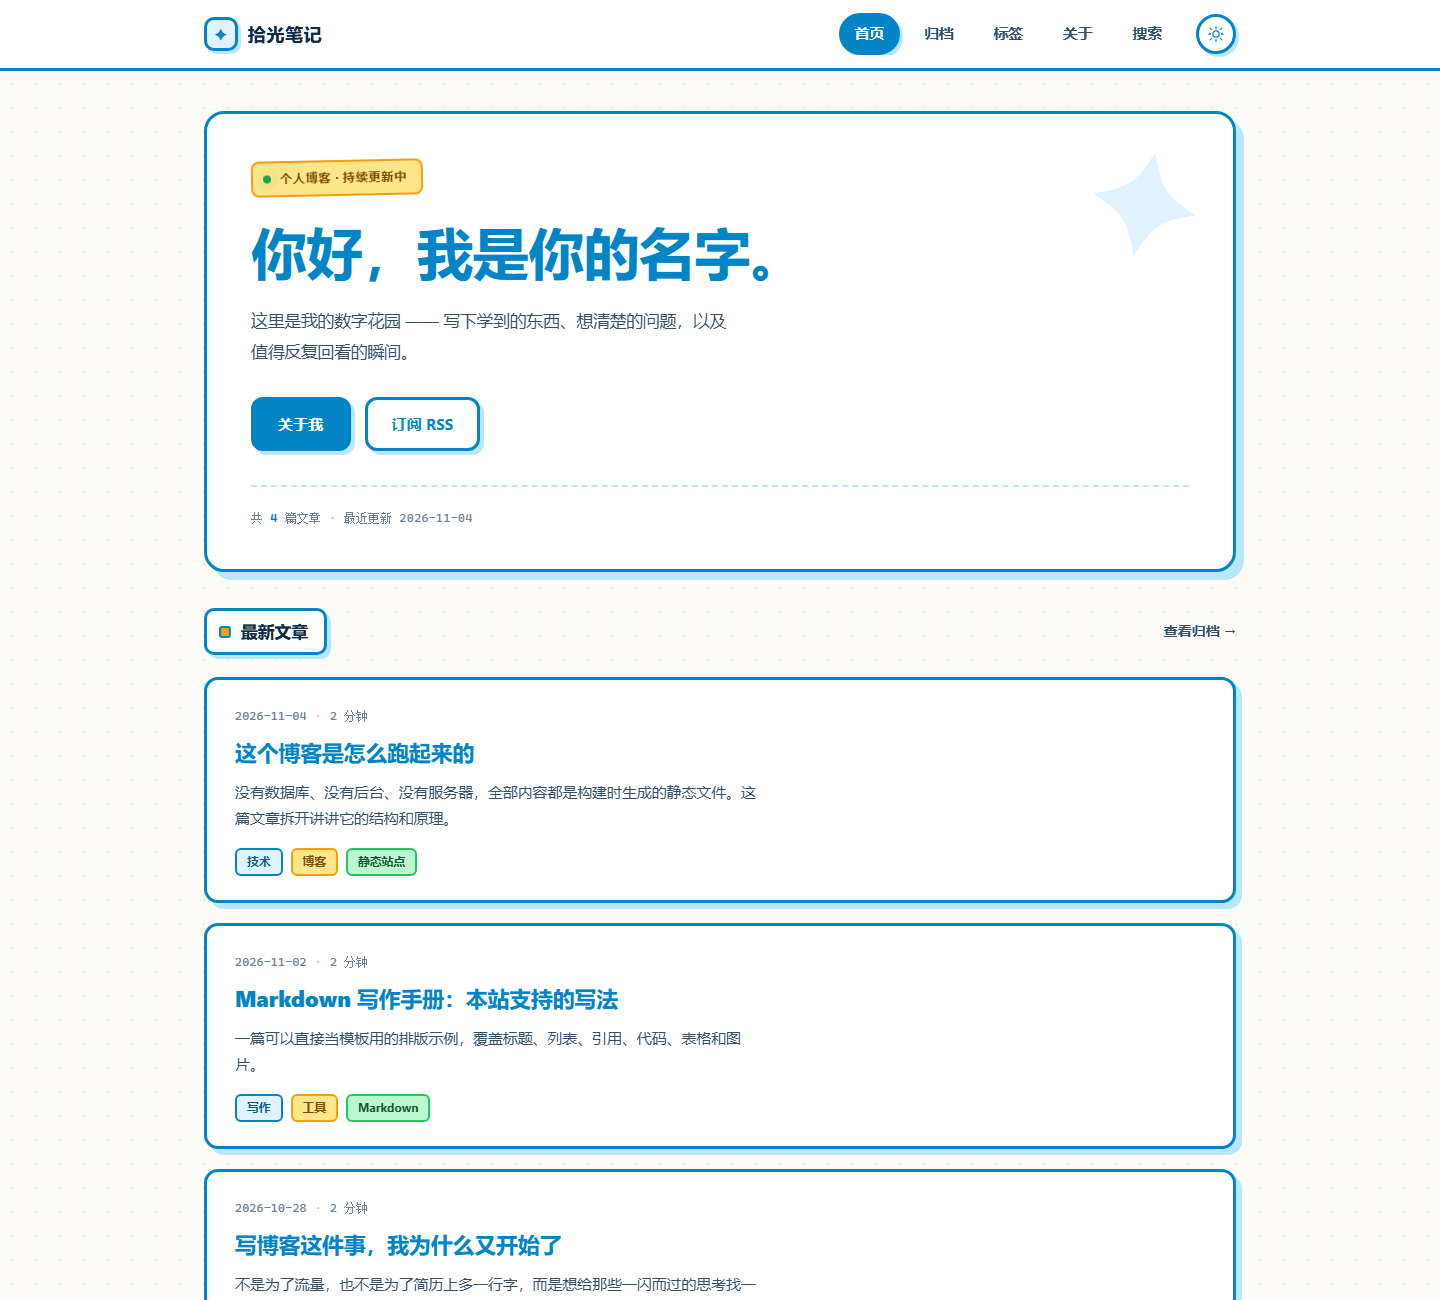
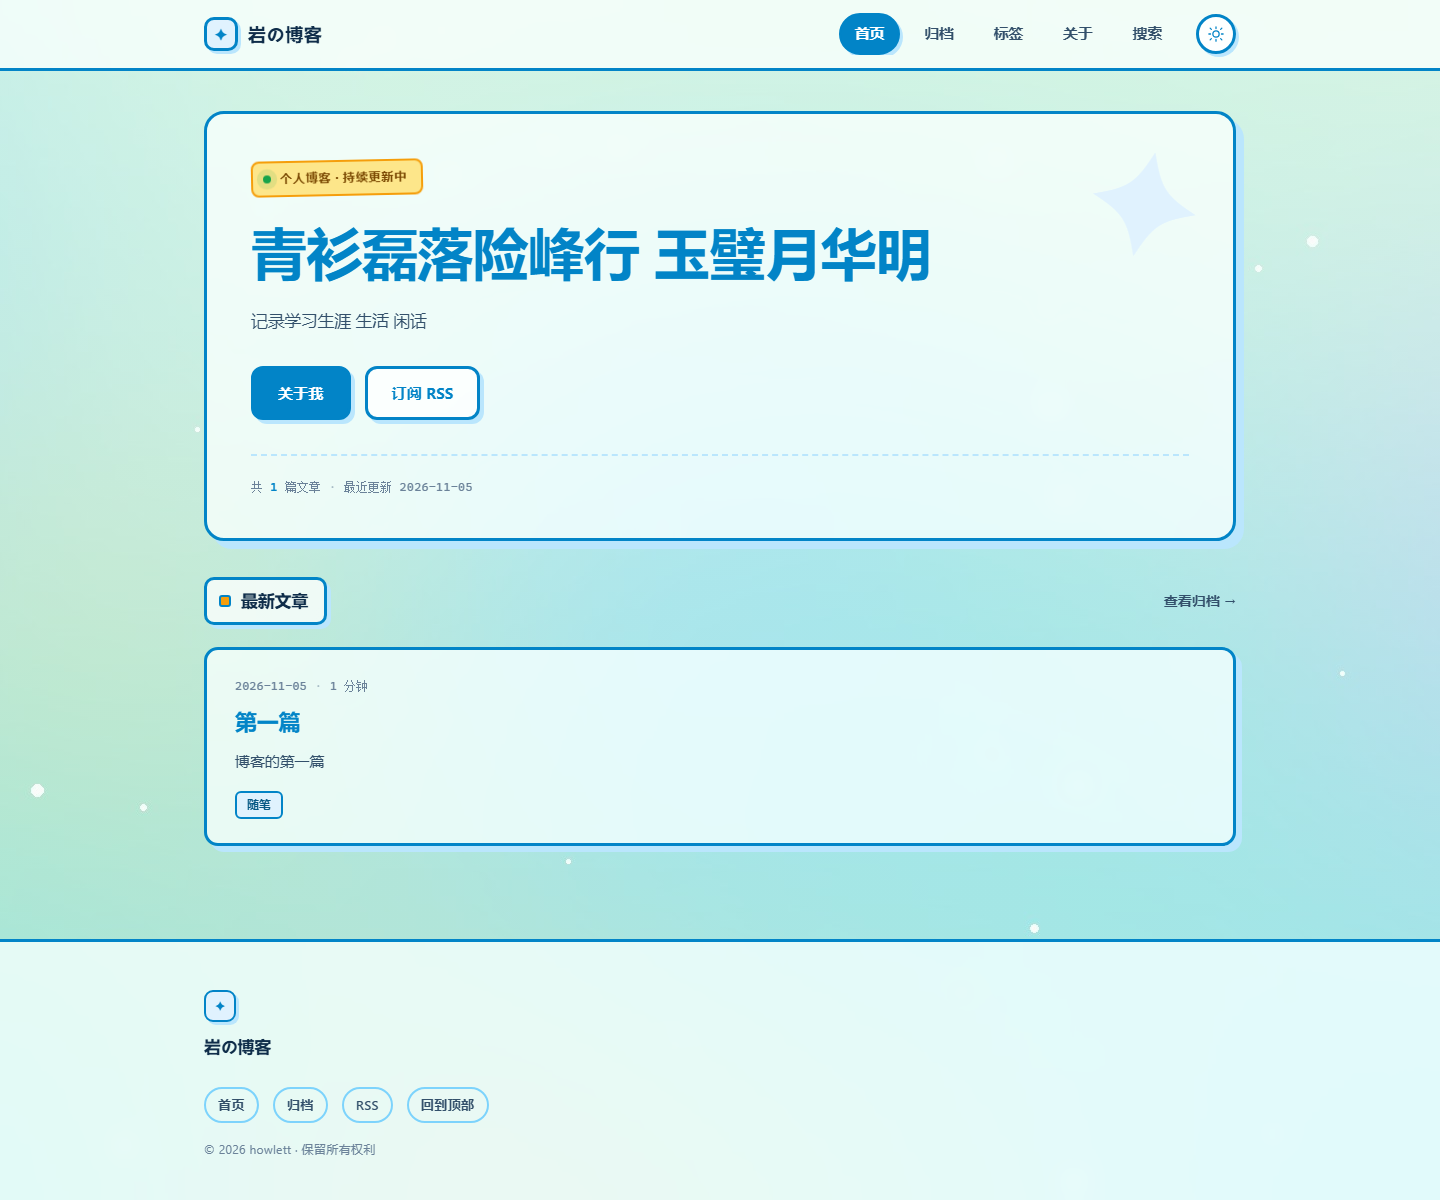
feat: 自定义背景图 + 半透明磨砂面板

diff --git a/theme/styles.css b/theme/styles.css
@@ -8,8 +8,9 @@
   /* 纸张与墨水 */
   --bg: #f2fbf4;
   --bg-dot: rgba(16, 185, 129, 0.13);
-  --surface: #ffffff;
-  --surface-soft: #f7f3ea;
+  --bg-scrim: rgba(242, 251, 244, 0.45);
+  --surface: rgba(255, 255, 255, 0.75);
+  --surface-soft: #8bccdf;
   --ink: #0f2d4a;
   --ink-soft: #33506b;
   --muted: #6b8299;
@@ -46,7 +47,8 @@
 [data-theme="dark"] {
   --bg: #0f161f;
   --bg-dot: rgba(56, 189, 248, 0.12);
-  --surface: #17212e;
+  --bg-scrim: rgba(15, 22, 31, 0.6);
+  --surface: rgba(23, 33, 46, 0.8);
   --surface-soft: #1d2836;
   --ink: #e8f1fa;
   --ink-soft: #b9cde0;
@@ -79,6 +81,7 @@ html {
   -webkit-text-size-adjust: 100%;
   scroll-behavior: smooth;
   scroll-padding-top: calc(var(--header-h) + 24px);
+  background-color: var(--bg);
 }
 
 body {
@@ -86,14 +89,19 @@ body {
   min-height: 100vh;
   display: flex;
   flex-direction: column;
+  position: relative;
   color: var(--ink);
   font-family: var(--font-body);
   font-size: 16px;
   line-height: 1.75;
-  background-color: var(--bg);
   background-image: radial-gradient(circle, var(--bg-dot) 1.4px, transparent 1.4px);
   background-size: 24px 24px;
   -webkit-font-smoothing: antialiased;
+}
+
+/* 有背景图时关掉点阵，避免画面太花；图片本身由 assets/background.css 提供 */
+body.has-bg {
+  background-image: none;
 }
 
 img,
@@ -125,6 +133,24 @@ a:hover {
 
 main {
   flex: 1 0 auto;
+}
+
+/* 半透明磨砂面板：背景图能透出来，文字依旧清楚 */
+.site-header,
+.hero,
+.post-card,
+.archive-year,
+.toc,
+.search-box,
+.search-item,
+.post-nav-item,
+.related-card,
+.tag-chip,
+.theme-toggle,
+.btn-ghost,
+.site-footer {
+  -webkit-backdrop-filter: blur(12px) saturate(140%);
+  backdrop-filter: blur(12px) saturate(140%);
 }
 
 .wrap {

diff --git a/README.md b/README.md
@@ -190,6 +190,7 @@ console.log('代码块');
 | `footerNote` | 页脚的一句话 |
 | `logo` | 站点头像/图标，写 `images/logo.png`（图片放 `public/images/`） |
 | `ogImage` | 分享到微信/Twitter 时的封面图 |
+| `background` | 整站背景图，写 `images/bg.jpg`；留空则用纯色 + 点阵 |
 | `icp` | 备案号，留空则不显示 |
 | `nav` | 导航菜单，增删条目即可 |
 | `pageSize` | 首页每页显示几篇 |
@@ -250,6 +251,7 @@ postEnd: '— 完 —',              // ← 改成 '◆'
 | **「关于」页的头像** | 在 `content/pages/about.md` 里加一行 `![头像](/images/avatar.jpg)` |
 | **文章里的插图** | 图片放 `public/images/`，文章里写 `![说明文字](/images/photo.jpg)` |
 | **分享封面** | `site.config.json` 的 `"ogImage": "images/cover.png"` |
+| **整站背景图** | 图片放 `public/images/`，在 `site.config.json` 写 `"background": "images/bg.jpg"` |
 
 文章里的图片路径以 `/` 开头即可，构建时会自动转换成相对路径，所以部署在 `用户名.github.io/blog/` 这种子目录下也不会失效。
 
@@ -279,6 +281,26 @@ postEnd: '— 完 —',              // ← 改成 '◆'
 暗色模式的变量在 `[data-theme="dark"]` 里，改完记得两边都看一眼。想换字体又不想改 CSS，也可以直接改 `--font-display` / `--font-body` 这两行。
 
 > 字体说明：`Fredoka` / `Nunito` 没有随项目打包，装了就用、没装就自动回落到系统字体（Windows 上是微软雅黑），不会白屏也不会卡加载。想确保效果，可以下载字体放到 `public/fonts/` 再用 `@font-face` 引入。
+
+**换背景图 / 让面板透明**
+
+把图片放进 `public/images/`，然后在 `site.config.json` 里加一行：
+
+```json
+"background": "images/bg.jpg"
+```
+
+保存后整站背景会铺上这张图，同时：
+
+- 卡片、页头、目录、按钮这些面板会变成**半透明白 + 磨砂模糊**，能看见背景
+- 图片上会盖一层 45% 的白色蒙层（`--bg-scrim`），保证文字看得清
+
+嫌背景太淡就调低 `--bg-scrim` 的透明度（0.45 → 0.25 更清晰，0.7 更淡）；嫌文字不够清楚就调高。想彻底关掉背景图，把 `"background"` 改成 `""`。
+
+| 变量 | 默认值 | 作用 |
+| --- | --- | --- |
+| `--bg-scrim` | `rgba(242,251,244,.45)` | 盖在背景图上的蒙层，越大越淡 |
+| `--surface` | `rgba(255,255,255,.75)` | 面板底色，越小越透 |
 
 ### 5. 导航和页面
 
